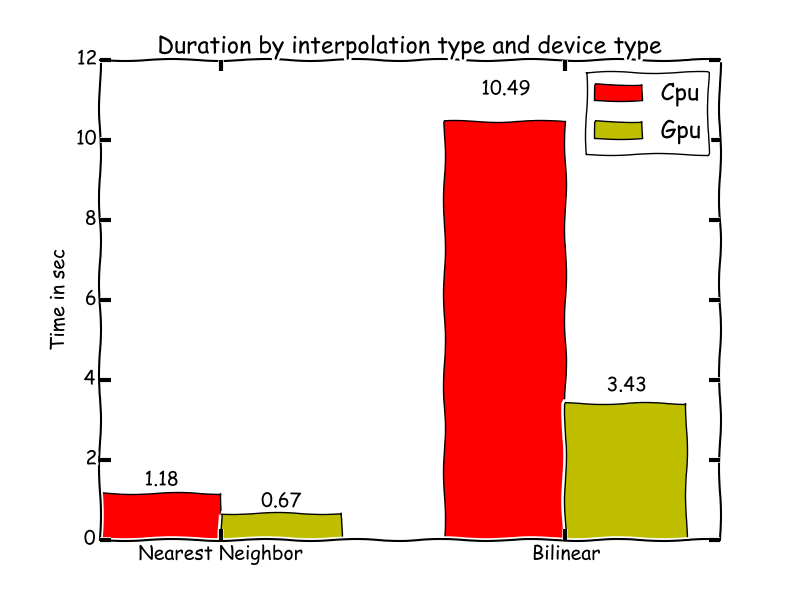
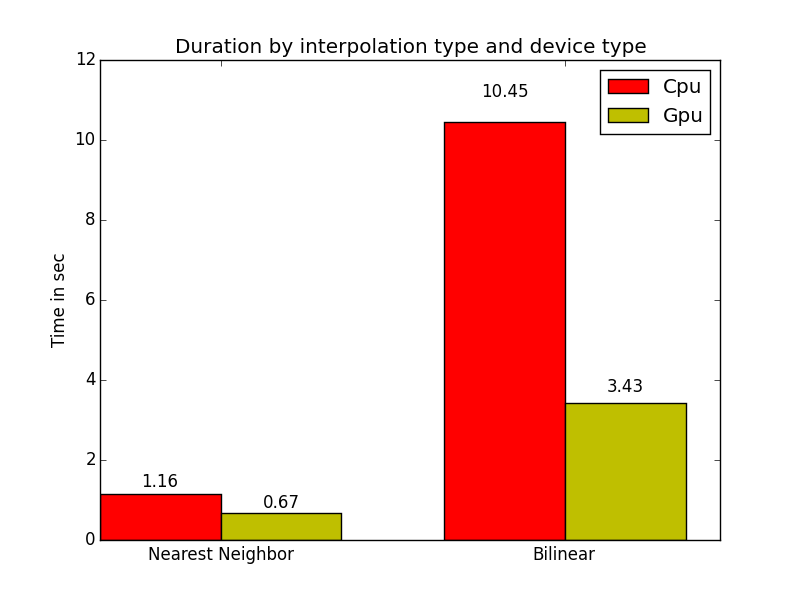
Cleaning

diff --git a/Release/Benchmark.py b/Release/Benchmark.py
@@ -26,19 +26,8 @@ def convert_to_raw(file):
 
     return file_name
 
-def loop_over_binary_file(file):
-
-    with open(file, "rb") as imageFile:
-        f = imageFile.read()
-        pixels = bytearray(f)
-
-    for p in pixels:
-        print(p)
-
-
 
 def convert_to_jpg(raw_file):
-
 
     match = re.match('(\d+)x(\d+)x(\d+)x(\d+)_(\w+)', raw_file)
 
@@ -93,7 +82,7 @@ def benchmark_cpu_vs_gpu(input_raw_file):
 
 def plot_graph(durations):
     
-    with plt.xkcd():
+    # with plt.xkcd():
 
         N = 2
         # cpuMeans = (1.218, 10.303)
